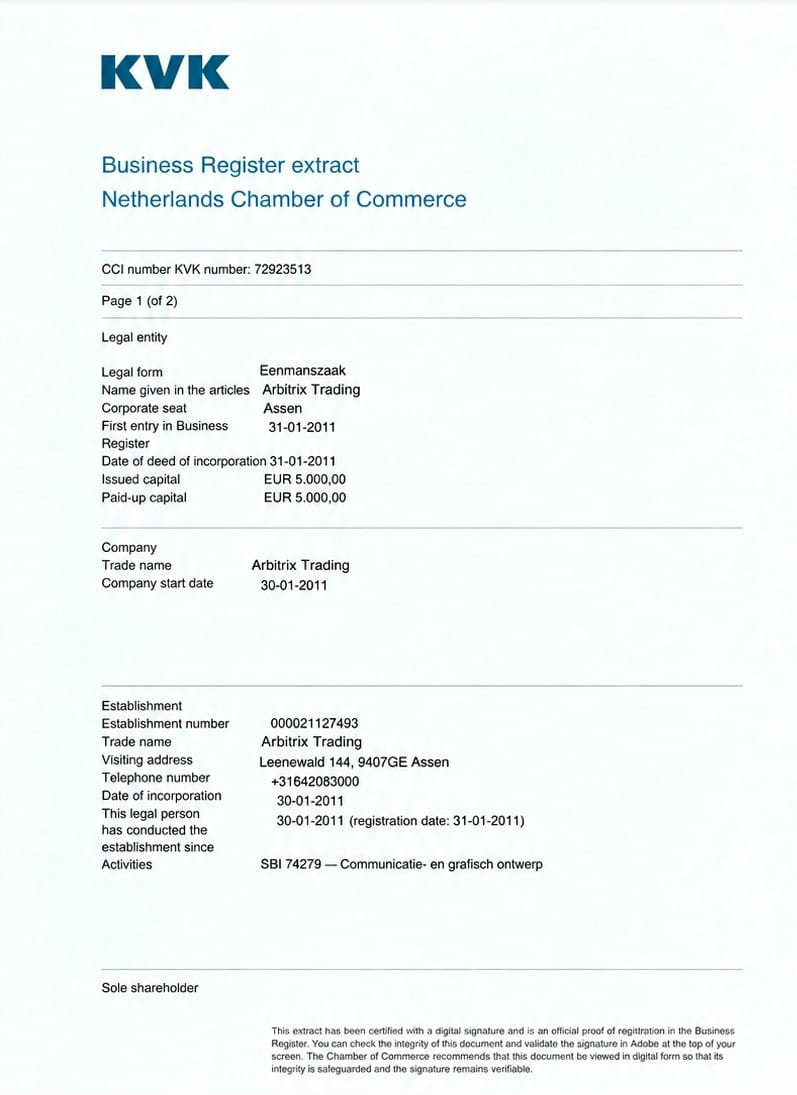
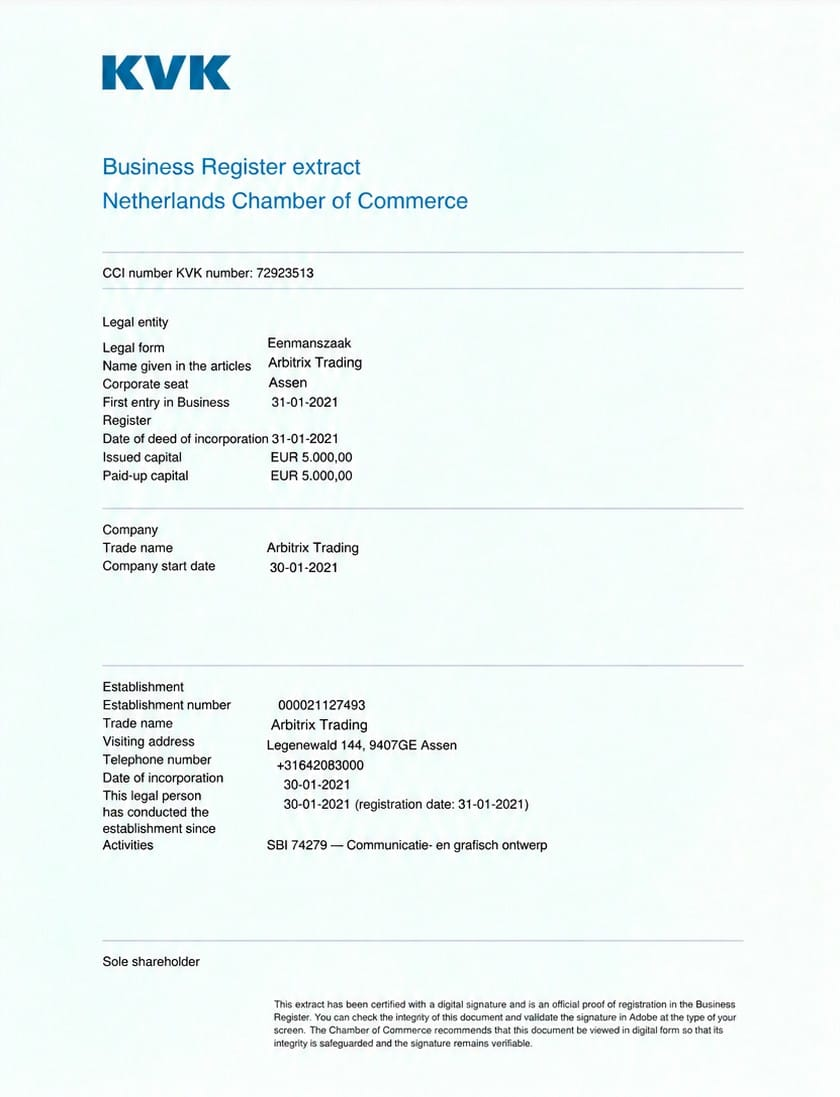
chore: replace published KVK certificate with the updated capture
The user uploaded a new scan of the same KVK uittreksel page 1 and asked to replace the document on /business-registration.

Verified before replacing: same page-1 layout and printed values (Arbitrix Trading / KVK number 72923513), same 'Pagina 1 van 2' footer marker, and a matching text-line structure (30 vs 32 line bands with the same block grouping) - i.e. a cleaner capture of the same document, not a different one. The copy is byte-identical to the upload (sha256 3497d587...243e, was dfe9dcf7...642d) and neither file carries EXIF metadata.

Page facts, layout, links and the support KB answer are unchanged.

diff --git a/tests/business_registration_page.test.js b/tests/business_registration_page.test.js
@@ -37,7 +37,9 @@ const LANGS = ['en', 'es', 'pt', 'fr', 'ar', 'zh'];
 
 const CERT_REL = '/certificates/kvk-business-registration-page-1.jpg';
 const CERT_PATH = path.join(ROOT, 'public', CERT_REL.replace(/^\//, ''));
[1 lines of base64/hex data omitted]
+// The published certificate is a byte-identical copy of the uploaded KVK
+// extract page 1 (refresh 2026-09-22: same document, cleaner capture).
[1 lines of base64/hex data omitted]
 
 // Values extracted from the KVK Business Register extract (page 1).
 const LEGAL_NAME = 'Arbitrix Trading';

diff --git a/AGENTS.md b/AGENTS.md
@@ -5069,9 +5069,16 @@ M server.js, M public/index.html, ?? supabase/migrations/012_email_change.sql,
   anywhere (the certificate IMAGE is published as-is on purpose, because the
   user supplied it for exactly that purpose).
 - CERTIFICATE: public/certificates/kvk-business-registration-page-1.jpg is a
-  BYTE-IDENTICAL copy of the uploaded image (sha256 dfe9dcf7...642d, pinned by
-  a test). The certificate itself is "Page 1 (of 2)"; only page 1 was uploaded,
-  so page 2 is NOT present and NOT invented - flagged to management.
+  BYTE-IDENTICAL copy of the uploaded image (sha256 3497d587...243e, pinned by
+  a test). REFRESHED 2026-09-22: the user uploaded a NEW capture of the SAME
+  document and asked to replace it; the previous pin was dfe9dcf7...642d
+  (797x1095), the replacement is 840x1097. Verified before replacing: same KVK
+  uittreksel page-1 layout, same printed values (Arbitrix Trading / KVK
+  72923513), same "Pagina 1 van 2" footer marker, and a matching text-line
+  structure (30 vs 32 line bands, same block grouping) - a cleaner capture of
+  the same page, not a different document. Neither file carries EXIF metadata.
+  The certificate itself is "Page 1 (of 2)"; only page 1 was uploaded, so page 2
+  is NOT present and NOT invented - flagged to management.
 - ROUTE: server.js registers app.get(['/business-registration',
   '/business-registration/']) -> sendFile(business-registration.html) right
   after /how-it-works and before the SPA fallback. The asset is served by the
